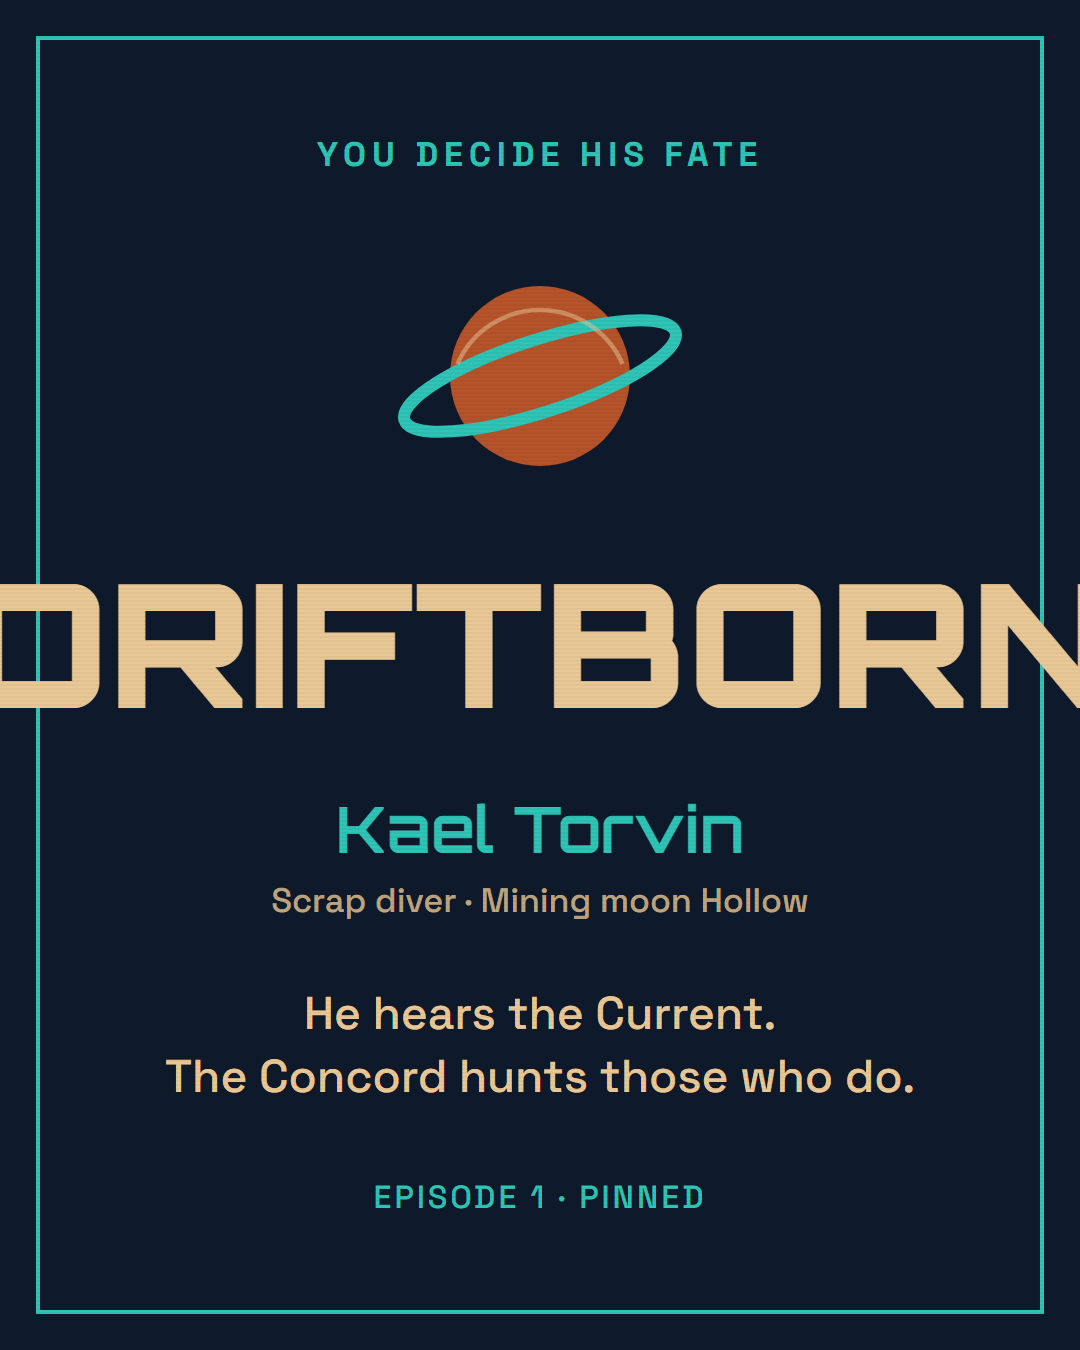
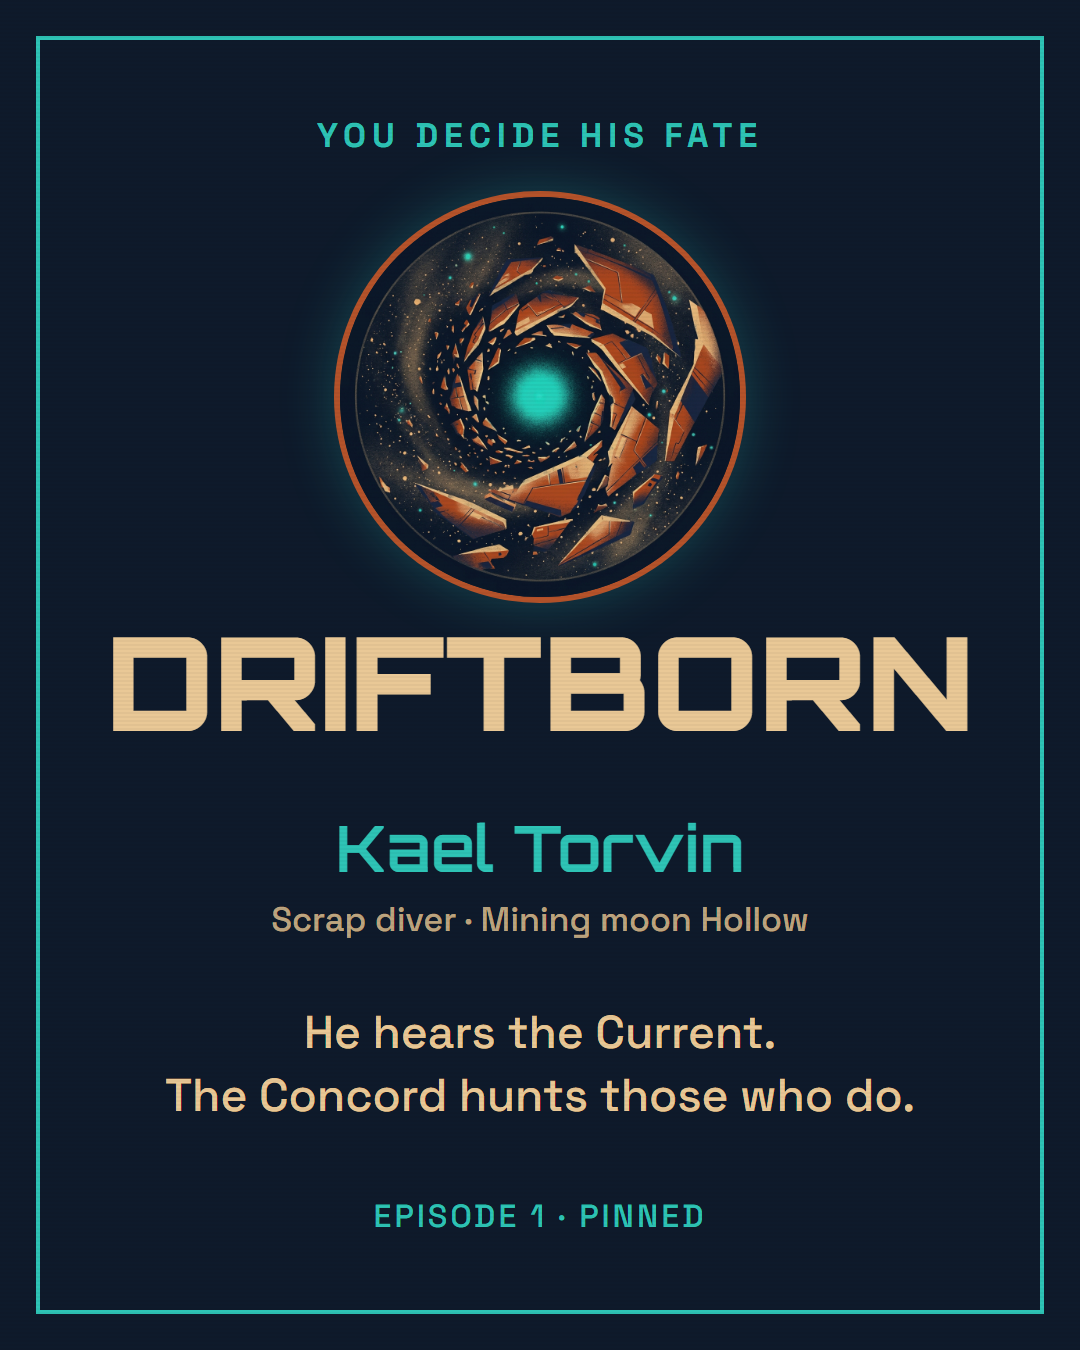
Posters: Debris art on Driftborn's, titles shrink to fit, Citizen 213 on Compliant's

diff --git a/make_images.py b/make_images.py
@@ -22,14 +22,14 @@ CUSTOM_PROFILE = {"driftborn": "gemini/driftborn-abstract-debris.jpg"}
 
 S = {
     "compliant": dict(
-        title="COMPLIANT", tag="YOU DECIDE", hero="Ezra Vale", role="Records Clerk · Ministry of Harmony",
+        title="COMPLIANT", tag="YOU DECIDE", hero="Ezra Vale", role="Citizen 213 · Ministry Records Clerk",
         hook="He deletes people for a living.<br>Then he found his sister's file.",
         a="comply", b="copy the file", bg="#EFE6D2", fg="#111111", acc="#C8102E", acc2="#39FF88",
         hf="'Bebas Neue'", bf="'IBM Plex Mono'", mark="eye",
         rule="Rebel or builder. Every choice is yours."),
     "last-draft": dict(
         title="THE LAST DRAFT", tag="YOU DECIDE WHO LIVES", hero="Cole Mercer", role="Chemistry teacher · Day 731",
-        hook="A teacher. 5 students. 1 stranger with a gun.<br>300 miles to the safe zone.",
+        hook="A teacher. 5 students.<br>1 stranger with a gun.<br>300 miles to the safe zone.",
         a="tell the group", b="keep her secret", bg="#2B2B2B", fg="#E8E1D3", acc="#D9692B", acc2="#3E6E6E",
         hf="'Special Elite'", bf="'Inter'", mark="roster",
         rule="Anyone can die. Even him."),
@@ -75,7 +75,11 @@ h1{{font-family:{hf};margin:0;line-height:1;color:{fg}}}
 .frame{{position:absolute;inset:36px;border:4px solid {acc}}}
 .opt{{display:flex;gap:24px;align-items:center;font-size:44px;margin:14px 0;font-weight:700}}
 .opt b{{display:inline-flex;width:84px;height:84px;align-items:center;justify-content:center;background:{acc};color:{bg};font-family:{hf};font-size:56px}}
-</style></head><body>{body}<div class="grain"></div></body></html>"""
+</style></head><body>{body}<div class="grain"></div>
+<script>/* shrink any heading that's wider than the frame until it fits */
+document.fonts.ready.then(() => document.querySelectorAll("h1").forEach(h => {{
+  h.style.whiteSpace = "nowrap"; let px = parseFloat(getComputedStyle(h).fontSize);
+  while (h.scrollWidth > {w} - 200 && px > 20) {{ px -= 2; h.style.fontSize = px + "px"; }} }}));</script></body></html>"""
 
 
 def render(name, w, h, body, c):
@@ -109,9 +113,14 @@ def main():
             print(f"{slug}-profile.png kept (from {CUSTOM_PROFILE[slug]})")
         else:
             render_profile(slug, c, size)
+        if slug in CUSTOM_PROFILE:  # the chosen art, as a round badge, instead of the drawn mark
+            emblem = (f'<img src="{CUSTOM_PROFILE[slug]}" style="width:400px;height:400px;border-radius:50%;'
+                      f'margin:40px 0 20px;box-shadow:0 0 0 6px {c["acc2"]},0 0 60px {c["acc"]}55">')
+        else:
+            emblem = f"""<div style="width:300px;height:300px;margin:50px 0 30px">{mark(c['mark'], c)}</div>"""
         render(f"{slug}-pin1", 1080, 1350, f"""<div class="frame"></div><div class="c" style="padding:0 90px">
 <div class="tag" style="font-size:34px">{c['tag']}</div>
-<div style="width:300px;height:300px;margin:50px 0 30px">{mark(c['mark'], c)}</div>
+{emblem}
 <h1 style="font-size:{int(size * 1.15)}px">{c['title']}</h1>
 <div style="font-size:64px;font-family:{c['hf']};margin-top:60px;color:{c['acc']}">{c['hero']}</div>
 <div style="font-size:34px;opacity:.8;margin-top:10px">{c['role']}</div>
